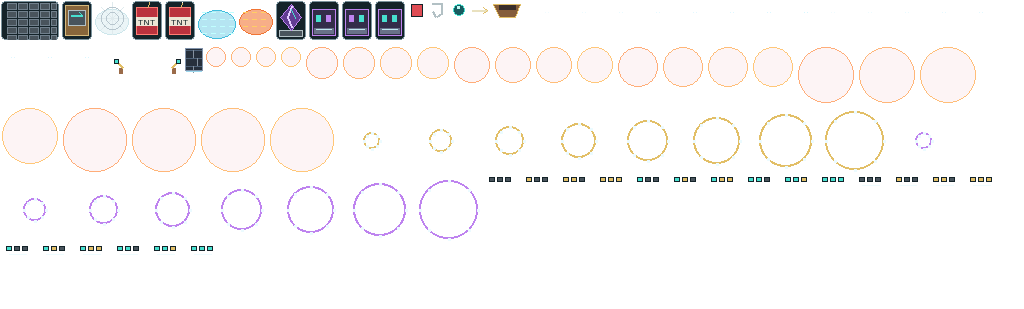
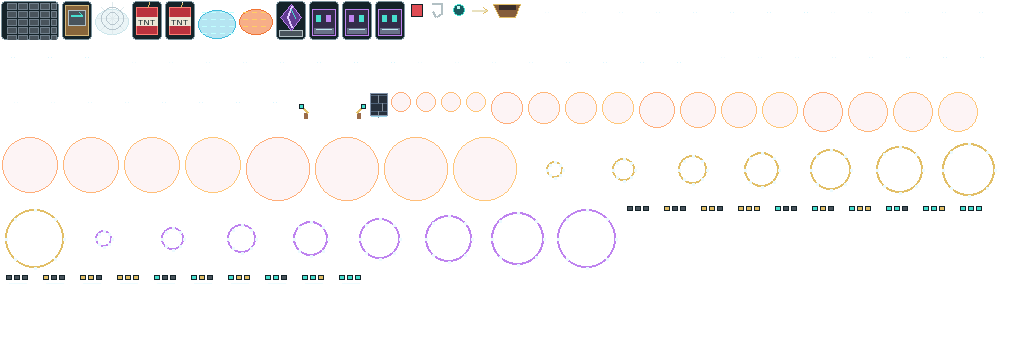
fix: align Herobrine eyes with lowered ultimate and hit poses

diff --git a/editor/steve-preset.js b/editor/steve-preset.js
@@ -1,1 +1,1 @@
-window.STEVE_PRESET={"id":"tfm2_blockcraft_steve","category":"Util","tags":["Tank","CC","Shield","Melee"],"sprite":"asset/tfm2_blockcraft/champions/tfm2_blockcraft_steve","anim_prefix":"","stat":{"attack":62,"magic_power":0,"hp":1150,"defence":40,"magic_resistance":35,"move_speed":1000,"hp_regen":0,"stack":0,"crit_chance":0},"growth":{"attack":11,"magic_power":0,"hp":120,"defence":10,"magic_resistance":5,"move_speed":10,"hp_regen":0,"stack":0,"crit_chance":0},"attack":{"action_name":"attack","cancelable":true,"growth_range":0,"can_use_with_move":false,"duration":22,"cooltime":65,"start_timing":12,"range":23000,"casting_type":"Targeting","casting_target":"Enemy","attack_type":"BaseAttack","effect":{"type":"Native","effect_ref":"tfm2_custom_ai:steve_basic"}},"skill":{"action_name":"skill1","cancelable":true,"growth_range":0,"can_use_with_move":false,"duration":6,"cooltime":5184000,"start_timing":3,"range":1,"casting_type":"Targeting","casting_target":"EnemyChampionInCC","attack_type":"Skill","effect":{"type":"Combine","effects":[]},"description":"#asset/base/text/champion?description.tfm2_blockcraft_steve.skill"},"skill2":{"action_name":"skill2","cancelable":true,"growth_range":0,"can_use_with_move":false,"duration":6,"cooltime":5184000,"start_timing":3,"range":1,"casting_type":"Targeting","casting_target":"EnemyChampionInCC","attack_type":"Skill","effect":{"type":"Combine","effects":[]},"description":"#asset/base/text/champion?description.tfm2_blockcraft_steve.skill2"},"ult":{"action_name":"ult","cancelable":true,"growth_range":0,"can_use_with_move":false,"duration":6,"cooltime":5184000,"start_timing":3,"range":1,"casting_type":"Targeting","casting_target":"EnemyChampionInCC","attack_type":"Skill","effect":{"type":"Combine","effects":[]},"description":"#asset/base/text/champion?description.tfm2_blockcraft_steve.ult"},"passive":{"passive_ref":"tfm2_custom_ai:steve_craft","params":{}},"view_effects":[{"type":"Animation","name":"tfm2_blockcraft_steve_tnt","anim":"asset/tfm2_blockcraft/vfx/blockcraft","tag":"tnt","z":0,"is_follow":false},{"type":"Animation","name":"tfm2_blockcraft_steve_tnt_idle","anim":"asset/tfm2_blockcraft/vfx/blockcraft","tag":"tnt_idle","z":0,"is_follow":false},{"type":"Animation","name":"tfm2_blockcraft_steve_tnt_ring","anim":"asset/tfm2_blockcraft/vfx/blockcraft","tag":"tnt_ring","z":-1,"is_follow":false},{"type":"Animation","name":"tfm2_blockcraft_steve_boom","anim":"asset/tfm2_blockcraft/vfx/blockcraft","tag":"boom","z":2,"is_follow":false},{"type":"Animation","name":"tfm2_blockcraft_steve_hook","anim":"asset/tfm2_blockcraft/vfx/blockcraft","tag":"hook","z":2,"is_follow":false},{"type":"Animation","name":"tfm2_blockcraft_steve_line_dot","anim":"asset/tfm2_blockcraft/vfx/blockcraft","tag":"line_dot","z":1,"is_follow":false},{"type":"Animation","name":"tfm2_blockcraft_steve_hooked","anim":"asset/tfm2_blockcraft/vfx/blockcraft","tag":"hooked","z":3,"is_follow":true},{"type":"Animation","name":"tfm2_blockcraft_steve_apple_glow","anim":"asset/tfm2_blockcraft/vfx/blockcraft","tag":"apple_glow","z":2,"is_follow":true},{"type":"Animation","name":"tfm2_blockcraft_steve_warp","anim":"asset/tfm2_blockcraft/vfx/blockcraft","tag":"warp","z":2,"is_follow":false},{"type":"Animation","name":"tfm2_blockcraft_steve_splash","anim":"asset/tfm2_blockcraft/vfx/blockcraft","tag":"splash","z":2,"is_follow":false},{"type":"Animation","name":"tfm2_blockcraft_steve_boat_r","anim":"asset/tfm2_blockcraft/vfx/blockcraft","tag":"boat_r","z":0,"is_follow":false},{"type":"Animation","name":"tfm2_blockcraft_steve_boat_l","anim":"asset/tfm2_blockcraft/vfx/blockcraft","tag":"boat_l","z":0,"is_follow":false},{"type":"Animation","name":"tfm2_blockcraft_steve_ice","anim":"asset/tfm2_blockcraft/vfx/blockcraft","tag":"ice","z":-1,"is_follow":false},{"type":"Animation","name":"tfm2_blockcraft_steve_wall_block","anim":"asset/tfm2_blockcraft/vfx/blockcraft","tag":"wall_block","z":0,"is_follow":false},{"type":"Animation","name":"tfm2_blockcraft_steve_wall_rise","anim":"asset/tfm2_blockcraft/vfx/blockcraft","tag":"wall_rise","z":1,"is_follow":false},{"type":"Animation","name":"tfm2_blockcraft_craft_object0","anim":"asset/tfm2_blockcraft/vfx/steve_craft","tag":"object0","z":3,"is_follow":false},{"type":"Animation","name":"tfm2_blockcraft_craft_object1","anim":"asset/tfm2_blockcraft/vfx/steve_craft","tag":"object1","z":3,"is_follow":false},{"type":"Animation","name":"tfm2_blockcraft_craft_object2","anim":"asset/tfm2_blockcraft/vfx/steve_craft","tag":"object2","z":-1,"is_follow":false},{"type":"Animation","name":"tfm2_blockcraft_craft_object3","anim":"asset/tfm2_blockcraft/vfx/steve_craft","tag":"object3","z":3,"is_follow":false},{"type":"Animation","name":"tfm2_blockcraft_craft_object4","anim":"asset/tfm2_blockcraft/vfx/steve_craft","tag":"object4","z":-1,"is_follow":false},{"type":"Animation","name":"tfm2_blockcraft_craft_object5","anim":"asset/tfm2_blockcraft/vfx/steve_craft","tag":"object5","z":-1,"is_follow":false},{"type":"Animation","name":"tfm2_blockcraft_craft_object6","anim":"asset/tfm2_blockcraft/vfx/steve_craft","tag":"object6","z":3,"is_follow":false},{"type":"Animation","name":"tfm2_blockcraft_craft_object7","anim":"asset/tfm2_blockcraft/vfx/steve_craft","tag":"object7","z":3,"is_follow":false},{"type":"Animation","name":"tfm2_blockcraft_craft_tool3","anim":"asset/tfm2_blockcraft/vfx/steve_craft","tag":"tool3","z":3,"is_follow":false},{"type":"Animation","name":"tfm2_blockcraft_craft_tool8","anim":"asset/tfm2_blockcraft/vfx/steve_craft","tag":"tool8","z":3,"is_follow":false},{"type":"Animation","name":"tfm2_blockcraft_craft_tool9","anim":"asset/tfm2_blockcraft/vfx/steve_craft","tag":"tool9","z":3,"is_follow":false},{"type":"Animation","name":"tfm2_blockcraft_craft_tool12","anim":"asset/tfm2_blockcraft/vfx/steve_craft","tag":"tool12","z":3,"is_follow":false},{"type":"Animation","name":"tfm2_blockcraft_craft_tool14","anim":"asset/tfm2_blockcraft/vfx/steve_craft","tag":"tool14","z":3,"is_follow":false},{"type":"Animation","name":"tfm2_blockcraft_craft_eyes","anim":"asset/tfm2_blockcraft/vfx/steve_craft","tag":"eyes","z":3,"is_follow":false},{"type":"Animation","name":"tfm2_blockcraft_craft_eyes_l","anim":"asset/tfm2_blockcraft/vfx/steve_craft","tag":"eyes_l","z":3,"is_follow":false},{"type":"Animation","name":"tfm2_blockcraft_craft_cast_l","anim":"asset/tfm2_blockcraft/vfx/steve_craft","tag":"cast_l","z":3,"is_follow":false},{"type":"Animation","name":"tfm2_blockcraft_craft_cast_r","anim":"asset/tfm2_blockcraft/vfx/steve_craft","tag":"cast_r","z":3,"is_follow":false},{"type":"Animation","name":"tfm2_blockcraft_craft_wall","anim":"asset/tfm2_blockcraft/vfx/steve_craft","tag":"wall","z":3,"is_follow":false},{"type":"Animation","name":"tfm2_blockcraft_craft_boat","anim":"asset/tfm2_blockcraft/vfx/steve_craft","tag":"boat","z":3,"is_follow":false},{"type":"Animation","name":"tfm2_blockcraft_craft_warn10","anim":"asset/tfm2_blockcraft/vfx/steve_craft","tag":"warn10","z":-1,"is_follow":false},{"type":"Animation","name":"tfm2_blockcraft_craft_warn16","anim":"asset/tfm2_blockcraft/vfx/steve_craft","tag":"warn16","z":-1,"is_follow":false},{"type":"Animation","name":"tfm2_blockcraft_craft_warn18","anim":"asset/tfm2_blockcraft/vfx/steve_craft","tag":"warn18","z":-1,"is_follow":false},{"type":"Animation","name":"tfm2_blockcraft_craft_warn20","anim":"asset/tfm2_blockcraft/vfx/steve_craft","tag":"warn20","z":-1,"is_follow":false},{"type":"Animation","name":"tfm2_blockcraft_craft_warn28","anim":"asset/tfm2_blockcraft/vfx/steve_craft","tag":"warn28","z":-1,"is_follow":false},{"type":"Animation","name":"tfm2_blockcraft_craft_warn32","anim":"asset/tfm2_blockcraft/vfx/steve_craft","tag":"warn32","z":-1,"is_follow":false},{"type":"Animation","name":"tfm2_blockcraft_craft_fx3","anim":"asset/tfm2_blockcraft/vfx/steve_craft","tag":"fx3","z":3,"is_follow":false},{"type":"Animation","name":"tfm2_blockcraft_craft_fx6","anim":"asset/tfm2_blockcraft/vfx/steve_craft","tag":"fx6","z":3,"is_follow":false},{"type":"Animation","name":"tfm2_blockcraft_craft_fx7","anim":"asset/tfm2_blockcraft/vfx/steve_craft","tag":"fx7","z":3,"is_follow":false},{"type":"Animation","name":"tfm2_blockcraft_craft_fx20","anim":"asset/tfm2_blockcraft/vfx/steve_craft","tag":"fx20","z":3,"is_follow":false}],"view_projectiles":[{"type":"Animated","name":"tfm2_blockcraft_steve_pearl","anim":"asset/tfm2_blockcraft/vfx/blockcraft","tag":"pearl","z":1,"repeat":true},{"type":"Animated","name":"tfm2_blockcraft_steve_tnt_fly","anim":"asset/tfm2_blockcraft/vfx/blockcraft","tag":"tnt_fly","z":1,"repeat":true},{"type":"Animated","name":"tfm2_blockcraft_steve_apple","anim":"asset/tfm2_blockcraft/vfx/blockcraft","tag":"apple","z":1,"repeat":true}],"view_buffs":[{"type":"Animated","name":"stv_tool0","anim":"asset/tfm2_blockcraft/vfx/blockcraft","tag":"tool_0","z":3},{"type":"Animated","name":"stv_tool1","anim":"asset/tfm2_blockcraft/vfx/blockcraft","tag":"tool_1","z":3},{"type":"Animated","name":"stv_tool2","anim":"asset/tfm2_blockcraft/vfx/blockcraft","tag":"tool_2","z":3},{"type":"Animated","name":"stv_ch0","anim":"asset/tfm2_blockcraft/vfx/blockcraft","tag":"charge_0","z":3},{"type":"Animated","name":"stv_ch1","anim":"asset/tfm2_blockcraft/vfx/blockcraft","tag":"charge_1","z":3},{"type":"Animated","name":"stv_ch2","anim":"asset/tfm2_blockcraft/vfx/blockcraft","tag":"charge_2","z":3},{"type":"Animated","name":"stv_ch3","anim":"asset/tfm2_blockcraft/vfx/blockcraft","tag":"charge_3","z":3},{"type":"Animated","name":"stv_ch4","anim":"asset/tfm2_blockcraft/vfx/blockcraft","tag":"charge_4","z":3},{"type":"Animated","name":"stv_ch5","anim":"asset/tfm2_blockcraft/vfx/blockcraft","tag":"charge_5","z":3},{"type":"Animated","name":"sc_hud_0_0_0","anim":"asset/tfm2_blockcraft/vfx/steve_craft","tag":"hud_0_0_0","z":4},{"type":"Animated","name":"sc_hud_0_0_1","anim":"asset/tfm2_blockcraft/vfx/steve_craft","tag":"hud_0_0_1","z":4},{"type":"Animated","name":"sc_hud_0_0_2","anim":"asset/tfm2_blockcraft/vfx/steve_craft","tag":"hud_0_0_2","z":4},{"type":"Animated","name":"sc_hud_0_0_3","anim":"asset/tfm2_blockcraft/vfx/steve_craft","tag":"hud_0_0_3","z":4},{"type":"Animated","name":"sc_hud_0_1_0","anim":"asset/tfm2_blockcraft/vfx/steve_craft","tag":"hud_0_1_0","z":4},{"type":"Animated","name":"sc_hud_0_1_1","anim":"asset/tfm2_blockcraft/vfx/steve_craft","tag":"hud_0_1_1","z":4},{"type":"Animated","name":"sc_hud_0_1_2","anim":"asset/tfm2_blockcraft/vfx/steve_craft","tag":"hud_0_1_2","z":4},{"type":"Animated","name":"sc_hud_0_2_0","anim":"asset/tfm2_blockcraft/vfx/steve_craft","tag":"hud_0_2_0","z":4},{"type":"Animated","name":"sc_hud_0_2_1","anim":"asset/tfm2_blockcraft/vfx/steve_craft","tag":"hud_0_2_1","z":4},{"type":"Animated","name":"sc_hud_0_3_0","anim":"asset/tfm2_blockcraft/vfx/steve_craft","tag":"hud_0_3_0","z":4},{"type":"Animated","name":"sc_hud_1_0_0","anim":"asset/tfm2_blockcraft/vfx/steve_craft","tag":"hud_1_0_0","z":4},{"type":"Animated","name":"sc_hud_1_0_1","anim":"asset/tfm2_blockcraft/vfx/steve_craft","tag":"hud_1_0_1","z":4},{"type":"Animated","name":"sc_hud_1_0_2","anim":"asset/tfm2_blockcraft/vfx/steve_craft","tag":"hud_1_0_2","z":4},{"type":"Animated","name":"sc_hud_1_0_3","anim":"asset/tfm2_blockcraft/vfx/steve_craft","tag":"hud_1_0_3","z":4},{"type":"Animated","name":"sc_hud_1_1_0","anim":"asset/tfm2_blockcraft/vfx/steve_craft","tag":"hud_1_1_0","z":4},{"type":"Animated","name":"sc_hud_1_1_1","anim":"asset/tfm2_blockcraft/vfx/steve_craft","tag":"hud_1_1_1","z":4},{"type":"Animated","name":"sc_hud_1_1_2","anim":"asset/tfm2_blockcraft/vfx/steve_craft","tag":"hud_1_1_2","z":4},{"type":"Animated","name":"sc_hud_1_2_0","anim":"asset/tfm2_blockcraft/vfx/steve_craft","tag":"hud_1_2_0","z":4},{"type":"Animated","name":"sc_hud_1_2_1","anim":"asset/tfm2_blockcraft/vfx/steve_craft","tag":"hud_1_2_1","z":4},{"type":"Animated","name":"sc_hud_1_3_0","anim":"asset/tfm2_blockcraft/vfx/steve_craft","tag":"hud_1_3_0","z":4}],"passive_ult":null};
+window.STEVE_PRESET={"id":"tfm2_blockcraft_steve","category":"Util","tags":["Tank","CC","Shield","Melee"],"sprite":"asset/tfm2_blockcraft/champions/tfm2_blockcraft_steve","anim_prefix":"","stat":{"attack":62,"magic_power":0,"hp":1150,"defence":40,"magic_resistance":35,"move_speed":1000,"hp_regen":0,"stack":0,"crit_chance":0},"growth":{"attack":11,"magic_power":0,"hp":120,"defence":10,"magic_resistance":5,"move_speed":10,"hp_regen":0,"stack":0,"crit_chance":0},"attack":{"action_name":"attack","cancelable":true,"growth_range":0,"can_use_with_move":false,"duration":22,"cooltime":65,"start_timing":12,"range":23000,"casting_type":"Targeting","casting_target":"Enemy","attack_type":"BaseAttack","effect":{"type":"Native","effect_ref":"tfm2_custom_ai:steve_basic"}},"skill":{"action_name":"skill1","cancelable":true,"growth_range":0,"can_use_with_move":false,"duration":6,"cooltime":5184000,"start_timing":3,"range":1,"casting_type":"Targeting","casting_target":"EnemyChampionInCC","attack_type":"Skill","effect":{"type":"Combine","effects":[]},"description":"#asset/base/text/champion?description.tfm2_blockcraft_steve.skill"},"skill2":{"action_name":"skill2","cancelable":true,"growth_range":0,"can_use_with_move":false,"duration":6,"cooltime":5184000,"start_timing":3,"range":1,"casting_type":"Targeting","casting_target":"EnemyChampionInCC","attack_type":"Skill","effect":{"type":"Combine","effects":[]},"description":"#asset/base/text/champion?description.tfm2_blockcraft_steve.skill2"},"ult":{"action_name":"ult","cancelable":true,"growth_range":0,"can_use_with_move":false,"duration":6,"cooltime":5184000,"start_timing":3,"range":1,"casting_type":"Targeting","casting_target":"EnemyChampionInCC","attack_type":"Skill","effect":{"type":"Combine","effects":[]},"description":"#asset/base/text/champion?description.tfm2_blockcraft_steve.ult"},"passive":{"passive_ref":"tfm2_custom_ai:steve_craft","params":{}},"view_effects":[{"type":"Animation","name":"tfm2_blockcraft_steve_tnt","anim":"asset/tfm2_blockcraft/vfx/blockcraft","tag":"tnt","z":0,"is_follow":false},{"type":"Animation","name":"tfm2_blockcraft_steve_tnt_idle","anim":"asset/tfm2_blockcraft/vfx/blockcraft","tag":"tnt_idle","z":0,"is_follow":false},{"type":"Animation","name":"tfm2_blockcraft_steve_tnt_ring","anim":"asset/tfm2_blockcraft/vfx/blockcraft","tag":"tnt_ring","z":-1,"is_follow":false},{"type":"Animation","name":"tfm2_blockcraft_steve_boom","anim":"asset/tfm2_blockcraft/vfx/blockcraft","tag":"boom","z":2,"is_follow":false},{"type":"Animation","name":"tfm2_blockcraft_steve_hook","anim":"asset/tfm2_blockcraft/vfx/blockcraft","tag":"hook","z":2,"is_follow":false},{"type":"Animation","name":"tfm2_blockcraft_steve_line_dot","anim":"asset/tfm2_blockcraft/vfx/blockcraft","tag":"line_dot","z":1,"is_follow":false},{"type":"Animation","name":"tfm2_blockcraft_steve_hooked","anim":"asset/tfm2_blockcraft/vfx/blockcraft","tag":"hooked","z":3,"is_follow":true},{"type":"Animation","name":"tfm2_blockcraft_steve_apple_glow","anim":"asset/tfm2_blockcraft/vfx/blockcraft","tag":"apple_glow","z":2,"is_follow":true},{"type":"Animation","name":"tfm2_blockcraft_steve_warp","anim":"asset/tfm2_blockcraft/vfx/blockcraft","tag":"warp","z":2,"is_follow":false},{"type":"Animation","name":"tfm2_blockcraft_steve_splash","anim":"asset/tfm2_blockcraft/vfx/blockcraft","tag":"splash","z":2,"is_follow":false},{"type":"Animation","name":"tfm2_blockcraft_steve_boat_r","anim":"asset/tfm2_blockcraft/vfx/blockcraft","tag":"boat_r","z":0,"is_follow":false},{"type":"Animation","name":"tfm2_blockcraft_steve_boat_l","anim":"asset/tfm2_blockcraft/vfx/blockcraft","tag":"boat_l","z":0,"is_follow":false},{"type":"Animation","name":"tfm2_blockcraft_steve_ice","anim":"asset/tfm2_blockcraft/vfx/blockcraft","tag":"ice","z":-1,"is_follow":false},{"type":"Animation","name":"tfm2_blockcraft_steve_wall_block","anim":"asset/tfm2_blockcraft/vfx/blockcraft","tag":"wall_block","z":0,"is_follow":false},{"type":"Animation","name":"tfm2_blockcraft_steve_wall_rise","anim":"asset/tfm2_blockcraft/vfx/blockcraft","tag":"wall_rise","z":1,"is_follow":false},{"type":"Animation","name":"tfm2_blockcraft_craft_object0","anim":"asset/tfm2_blockcraft/vfx/steve_craft","tag":"object0","z":3,"is_follow":false},{"type":"Animation","name":"tfm2_blockcraft_craft_object1","anim":"asset/tfm2_blockcraft/vfx/steve_craft","tag":"object1","z":3,"is_follow":false},{"type":"Animation","name":"tfm2_blockcraft_craft_object2","anim":"asset/tfm2_blockcraft/vfx/steve_craft","tag":"object2","z":-1,"is_follow":false},{"type":"Animation","name":"tfm2_blockcraft_craft_object3","anim":"asset/tfm2_blockcraft/vfx/steve_craft","tag":"object3","z":3,"is_follow":false},{"type":"Animation","name":"tfm2_blockcraft_craft_object4","anim":"asset/tfm2_blockcraft/vfx/steve_craft","tag":"object4","z":-1,"is_follow":false},{"type":"Animation","name":"tfm2_blockcraft_craft_object5","anim":"asset/tfm2_blockcraft/vfx/steve_craft","tag":"object5","z":-1,"is_follow":false},{"type":"Animation","name":"tfm2_blockcraft_craft_object6","anim":"asset/tfm2_blockcraft/vfx/steve_craft","tag":"object6","z":3,"is_follow":false},{"type":"Animation","name":"tfm2_blockcraft_craft_object7","anim":"asset/tfm2_blockcraft/vfx/steve_craft","tag":"object7","z":3,"is_follow":false},{"type":"Animation","name":"tfm2_blockcraft_craft_tool3","anim":"asset/tfm2_blockcraft/vfx/steve_craft","tag":"tool3","z":3,"is_follow":false},{"type":"Animation","name":"tfm2_blockcraft_craft_tool8","anim":"asset/tfm2_blockcraft/vfx/steve_craft","tag":"tool8","z":3,"is_follow":false},{"type":"Animation","name":"tfm2_blockcraft_craft_tool9","anim":"asset/tfm2_blockcraft/vfx/steve_craft","tag":"tool9","z":3,"is_follow":false},{"type":"Animation","name":"tfm2_blockcraft_craft_tool12","anim":"asset/tfm2_blockcraft/vfx/steve_craft","tag":"tool12","z":3,"is_follow":false},{"type":"Animation","name":"tfm2_blockcraft_craft_tool14","anim":"asset/tfm2_blockcraft/vfx/steve_craft","tag":"tool14","z":3,"is_follow":false},{"type":"Animation","name":"tfm2_blockcraft_craft_eyes","anim":"asset/tfm2_blockcraft/vfx/steve_craft","tag":"eyes","z":3,"is_follow":false},{"type":"Animation","name":"tfm2_blockcraft_craft_eyes_l","anim":"asset/tfm2_blockcraft/vfx/steve_craft","tag":"eyes_l","z":3,"is_follow":false},{"type":"Animation","name":"tfm2_blockcraft_craft_eyes_ult","anim":"asset/tfm2_blockcraft/vfx/steve_craft","tag":"eyes_ult","z":3,"is_follow":false},{"type":"Animation","name":"tfm2_blockcraft_craft_eyes_ult_l","anim":"asset/tfm2_blockcraft/vfx/steve_craft","tag":"eyes_ult_l","z":3,"is_follow":false},{"type":"Animation","name":"tfm2_blockcraft_craft_eyes_hit","anim":"asset/tfm2_blockcraft/vfx/steve_craft","tag":"eyes_hit","z":3,"is_follow":false},{"type":"Animation","name":"tfm2_blockcraft_craft_eyes_hit_l","anim":"asset/tfm2_blockcraft/vfx/steve_craft","tag":"eyes_hit_l","z":3,"is_follow":false},{"type":"Animation","name":"tfm2_blockcraft_craft_cast_l","anim":"asset/tfm2_blockcraft/vfx/steve_craft","tag":"cast_l","z":3,"is_follow":false},{"type":"Animation","name":"tfm2_blockcraft_craft_cast_r","anim":"asset/tfm2_blockcraft/vfx/steve_craft","tag":"cast_r","z":3,"is_follow":false},{"type":"Animation","name":"tfm2_blockcraft_craft_wall","anim":"asset/tfm2_blockcraft/vfx/steve_craft","tag":"wall","z":3,"is_follow":false},{"type":"Animation","name":"tfm2_blockcraft_craft_boat","anim":"asset/tfm2_blockcraft/vfx/steve_craft","tag":"boat","z":3,"is_follow":false},{"type":"Animation","name":"tfm2_blockcraft_craft_warn10","anim":"asset/tfm2_blockcraft/vfx/steve_craft","tag":"warn10","z":-1,"is_follow":false},{"type":"Animation","name":"tfm2_blockcraft_craft_warn16","anim":"asset/tfm2_blockcraft/vfx/steve_craft","tag":"warn16","z":-1,"is_follow":false},{"type":"Animation","name":"tfm2_blockcraft_craft_warn18","anim":"asset/tfm2_blockcraft/vfx/steve_craft","tag":"warn18","z":-1,"is_follow":false},{"type":"Animation","name":"tfm2_blockcraft_craft_warn20","anim":"asset/tfm2_blockcraft/vfx/steve_craft","tag":"warn20","z":-1,"is_follow":false},{"type":"Animation","name":"tfm2_blockcraft_craft_warn28","anim":"asset/tfm2_blockcraft/vfx/steve_craft","tag":"warn28","z":-1,"is_follow":false},{"type":"Animation","name":"tfm2_blockcraft_craft_warn32","anim":"asset/tfm2_blockcraft/vfx/steve_craft","tag":"warn32","z":-1,"is_follow":false},{"type":"Animation","name":"tfm2_blockcraft_craft_fx3","anim":"asset/tfm2_blockcraft/vfx/steve_craft","tag":"fx3","z":3,"is_follow":false},{"type":"Animation","name":"tfm2_blockcraft_craft_fx6","anim":"asset/tfm2_blockcraft/vfx/steve_craft","tag":"fx6","z":3,"is_follow":false},{"type":"Animation","name":"tfm2_blockcraft_craft_fx7","anim":"asset/tfm2_blockcraft/vfx/steve_craft","tag":"fx7","z":3,"is_follow":false},{"type":"Animation","name":"tfm2_blockcraft_craft_fx20","anim":"asset/tfm2_blockcraft/vfx/steve_craft","tag":"fx20","z":3,"is_follow":false}],"view_projectiles":[{"type":"Animated","name":"tfm2_blockcraft_steve_pearl","anim":"asset/tfm2_blockcraft/vfx/blockcraft","tag":"pearl","z":1,"repeat":true},{"type":"Animated","name":"tfm2_blockcraft_steve_tnt_fly","anim":"asset/tfm2_blockcraft/vfx/blockcraft","tag":"tnt_fly","z":1,"repeat":true},{"type":"Animated","name":"tfm2_blockcraft_steve_apple","anim":"asset/tfm2_blockcraft/vfx/blockcraft","tag":"apple","z":1,"repeat":true}],"view_buffs":[{"type":"Animated","name":"stv_tool0","anim":"asset/tfm2_blockcraft/vfx/blockcraft","tag":"tool_0","z":3},{"type":"Animated","name":"stv_tool1","anim":"asset/tfm2_blockcraft/vfx/blockcraft","tag":"tool_1","z":3},{"type":"Animated","name":"stv_tool2","anim":"asset/tfm2_blockcraft/vfx/blockcraft","tag":"tool_2","z":3},{"type":"Animated","name":"stv_ch0","anim":"asset/tfm2_blockcraft/vfx/blockcraft","tag":"charge_0","z":3},{"type":"Animated","name":"stv_ch1","anim":"asset/tfm2_blockcraft/vfx/blockcraft","tag":"charge_1","z":3},{"type":"Animated","name":"stv_ch2","anim":"asset/tfm2_blockcraft/vfx/blockcraft","tag":"charge_2","z":3},{"type":"Animated","name":"stv_ch3","anim":"asset/tfm2_blockcraft/vfx/blockcraft","tag":"charge_3","z":3},{"type":"Animated","name":"stv_ch4","anim":"asset/tfm2_blockcraft/vfx/blockcraft","tag":"charge_4","z":3},{"type":"Animated","name":"stv_ch5","anim":"asset/tfm2_blockcraft/vfx/blockcraft","tag":"charge_5","z":3},{"type":"Animated","name":"sc_hud_0_0_0","anim":"asset/tfm2_blockcraft/vfx/steve_craft","tag":"hud_0_0_0","z":4},{"type":"Animated","name":"sc_hud_0_0_1","anim":"asset/tfm2_blockcraft/vfx/steve_craft","tag":"hud_0_0_1","z":4},{"type":"Animated","name":"sc_hud_0_0_2","anim":"asset/tfm2_blockcraft/vfx/steve_craft","tag":"hud_0_0_2","z":4},{"type":"Animated","name":"sc_hud_0_0_3","anim":"asset/tfm2_blockcraft/vfx/steve_craft","tag":"hud_0_0_3","z":4},{"type":"Animated","name":"sc_hud_0_1_0","anim":"asset/tfm2_blockcraft/vfx/steve_craft","tag":"hud_0_1_0","z":4},{"type":"Animated","name":"sc_hud_0_1_1","anim":"asset/tfm2_blockcraft/vfx/steve_craft","tag":"hud_0_1_1","z":4},{"type":"Animated","name":"sc_hud_0_1_2","anim":"asset/tfm2_blockcraft/vfx/steve_craft","tag":"hud_0_1_2","z":4},{"type":"Animated","name":"sc_hud_0_2_0","anim":"asset/tfm2_blockcraft/vfx/steve_craft","tag":"hud_0_2_0","z":4},{"type":"Animated","name":"sc_hud_0_2_1","anim":"asset/tfm2_blockcraft/vfx/steve_craft","tag":"hud_0_2_1","z":4},{"type":"Animated","name":"sc_hud_0_3_0","anim":"asset/tfm2_blockcraft/vfx/steve_craft","tag":"hud_0_3_0","z":4},{"type":"Animated","name":"sc_hud_1_0_0","anim":"asset/tfm2_blockcraft/vfx/steve_craft","tag":"hud_1_0_0","z":4},{"type":"Animated","name":"sc_hud_1_0_1","anim":"asset/tfm2_blockcraft/vfx/steve_craft","tag":"hud_1_0_1","z":4},{"type":"Animated","name":"sc_hud_1_0_2","anim":"asset/tfm2_blockcraft/vfx/steve_craft","tag":"hud_1_0_2","z":4},{"type":"Animated","name":"sc_hud_1_0_3","anim":"asset/tfm2_blockcraft/vfx/steve_craft","tag":"hud_1_0_3","z":4},{"type":"Animated","name":"sc_hud_1_1_0","anim":"asset/tfm2_blockcraft/vfx/steve_craft","tag":"hud_1_1_0","z":4},{"type":"Animated","name":"sc_hud_1_1_1","anim":"asset/tfm2_blockcraft/vfx/steve_craft","tag":"hud_1_1_1","z":4},{"type":"Animated","name":"sc_hud_1_1_2","anim":"asset/tfm2_blockcraft/vfx/steve_craft","tag":"hud_1_1_2","z":4},{"type":"Animated","name":"sc_hud_1_2_0","anim":"asset/tfm2_blockcraft/vfx/steve_craft","tag":"hud_1_2_0","z":4},{"type":"Animated","name":"sc_hud_1_2_1","anim":"asset/tfm2_blockcraft/vfx/steve_craft","tag":"hud_1_2_1","z":4},{"type":"Animated","name":"sc_hud_1_3_0","anim":"asset/tfm2_blockcraft/vfx/steve_craft","tag":"hud_1_3_0","z":4}],"passive_ult":null};

diff --git a/editor/steve-lab.js b/editor/steve-lab.js
@@ -59,7 +59,7 @@ function draw(){const w=canvas.width,h=canvas.height,S=w/960000,oy=(h-960000*S)/
  for(const o of s.objects){const[x,y]=point([o.x,o.y]);sprite('object'+o.recipe,x,y);const host=objects.get(o.id);if(host){ctx.fillStyle='#152027';ctx.fillRect(x-15,y+23,30,3);ctx.fillStyle=host.hp?'#9de0be':'#ee8f98';ctx.fillRect(x-15,y+23,30*host.hp/host.maxHp,3);}if(o.id===objectSelected){ctx.strokeStyle='#e5ce8e';ctx.strokeRect(x-19,y-22,38,50);}}
  if(s.ride){let remaining=Math.max(0,tick-s.ride.start)*2500,p=s.ride.path.at(-1);for(let n=0;n+1<s.ride.path.length;n++){const a=s.ride.path[n],b=s.ride.path[n+1],len=Math.hypot(b[0]-a[0],b[1]-a[1]);if(remaining<=len){p=[a[0]+(b[0]-a[0])*remaining/Math.max(1,len),a[1]+(b[1]-a[1])*remaining/Math.max(1,len)];break;}remaining-=len;}const q=point(p);sprite('boat',q[0],q[1]+14);}
  for(const sh of s.shots){const[x,y]=point([sh[1],sh[2]]);sprite('tool'+sh[0],x,y);}}
- for(const u of units){if(!u.visible||u.hp<=0)continue;const[x,y]=point([u.x,u.y]);ctx.fillStyle=u.team===0?'#6dd9ba':'#df7a8c';ctx.beginPath();ctx.ellipse(x,y+18,15,5,0,0,Math.PI*2);ctx.fill();if(u.id===0){const face=aim[0]<u.x;sprite(s?.pending?'skill1':'idle',x,y,1,tick,face,true);if(s?.form)sprite('eyes',x,y,1,tick,face);if(s?.pending)sprite(face?'cast_l':'cast_r',x,y);}else{ctx.fillStyle=u.team===0?'#567e9b':'#9b5b69';ctx.fillRect(x-8,y-12,16,28);ctx.fillStyle='#d4b394';ctx.fillRect(x-7,y-21,14,12);}ctx.fillStyle='#112128';ctx.fillRect(x-20,y+26,40,4);ctx.fillStyle=u.team===0?'#72dcad':'#e68f9d';ctx.fillRect(x-20,y+26,40*u.hp/u.maxHp,4);ctx.font='11px system-ui';ctx.fillStyle='#e7efe7';ctx.textAlign='center';ctx.fillText(u.id===0?'Steve':'#'+u.id,x,y-29);if(u.id===selected){ctx.strokeStyle='#e3ca8a';ctx.beginPath();ctx.arc(x,y+3,25,0,Math.PI*2);ctx.stroke();}}
+ for(const u of units){if(!u.visible||u.hp<=0)continue;const[x,y]=point([u.x,u.y]);ctx.fillStyle=u.team===0?'#6dd9ba':'#df7a8c';ctx.beginPath();ctx.ellipse(x,y+18,15,5,0,0,Math.PI*2);ctx.fill();if(u.id===0){const face=aim[0]<u.x;const pose=s?.pending?([6,7].includes(s.pending.action[0])?'ult':'skill1'):'idle';sprite(pose,x,y,1,tick,face,true);if(s?.form)sprite(pose==='ult'?'eyes_ult':'eyes',x,y,1,tick,face);if(s?.pending)sprite(face?'cast_l':'cast_r',x,y);}else{ctx.fillStyle=u.team===0?'#567e9b':'#9b5b69';ctx.fillRect(x-8,y-12,16,28);ctx.fillStyle='#d4b394';ctx.fillRect(x-7,y-21,14,12);}ctx.fillStyle='#112128';ctx.fillRect(x-20,y+26,40,4);ctx.fillStyle=u.team===0?'#72dcad':'#e68f9d';ctx.fillRect(x-20,y+26,40*u.hp/u.maxHp,4);ctx.font='11px system-ui';ctx.fillStyle='#e7efe7';ctx.textAlign='center';ctx.fillText(u.id===0?'Steve':'#'+u.id,x,y-29);if(u.id===selected){ctx.strokeStyle='#e3ca8a';ctx.beginPath();ctx.arc(x,y+3,25,0,Math.PI*2);ctx.stroke();}}
  for(const e of effects){const[x,y]=point([e.x,e.y]);sprite(e.tag,x,y,1,tick-e.begin);}const[x,y]=point(aim);ctx.strokeStyle='#b9ccb9';ctx.lineWidth=1;ctx.beginPath();ctx.moveTo(x-7,y);ctx.lineTo(x+7,y);ctx.moveTo(x,y-7);ctx.lineTo(x,y+7);ctx.stroke();}
 function enqueue(a){queue.push(a);return a;}function cast(){const r=+$('#recipe').value;if(r===6||r===7)return enqueue([2,r]);let target=r===10?(units.find(u=>u.id===selected&&u.team===0)?.id??0):r===8?selected:null;enqueue([1,r,target===null?0:target+1,...aim]);}
 function demo(r=+$('#recipe').value){$('#automatic').checked=false;$('#moving').checked=false;reset('heavy');$('#recipe').value=r;recipeInfo();if(r===6||r===7){queue.push([2,r]);for(let n=0;n<62;n++)step();enqueue([3,0,0,...aim]);}else{if(r===0||r===1)aim=[520000,510000];if(r===8)aim=[units[1].x,units[1].y];cast();}playing=true;$('#play').textContent='Pause';}

diff --git a/tools/review-steve-art.py b/tools/review-steve-art.py
@@ -1,0 +1,16 @@
+"""Contact sheets at 1x/2x, every original pose, both facings and terrain contrasts."""
+from pathlib import Path
+from PIL import Image,ImageDraw,ImageOps,ImageFont
+import json
+ROOT=Path(__file__).resolve().parents[1];MOD=ROOT/'mods/tfm2_blockcraft';OUT=ROOT/'docs/steve-results'
+body=Image.open(MOD/'champions/tfm2_blockcraft_steve#sheet.png').convert('RGBA');poses=json.loads((MOD/'champions/tfm2_blockcraft_steve#anim.fanim').read_text())['anims'];fx=Image.open(MOD/'vfx/steve_craft#sheet.png').convert('RGBA');effects=json.loads((MOD/'vfx/steve_craft#anim.fanim').read_text())['anims'];font=ImageFont.load_default(size=12)
+def crop(im,r):return im.crop((r['x'],r['y'],r['x']+r['w'],r['y']+r['h']))
+eyes=crop(fx,effects['eyes']['frames'][0]['data']);sheet=Image.new('RGB',(1024,80+len(poses)*130),'#15232e');d=ImageDraw.Draw(sheet);d.text((16,14),'Original poses / Herobrine overlay / both facings / 1x and 2x',font=font,fill='white');d.text((16,36),'No original body pixels or animation timings changed. Native overlay alignment still needs live observation.',font=font,fill='#9db9c2')
+for row,(name,pose)in enumerate(poses.items()):
+ y=70+row*130;d.text((12,y+3),name+' / '+str(len(pose['frames']))+' frames',font=font,fill='#d5b878')
+ for col,(bg,left,overlay)in enumerate([('#182e35',False,False),('#182e35',False,True),('#182e35',True,True),('#d0cfb4',False,True),('#d0cfb4',True,True)]):
+  x=210+col*160;d.rectangle((x,y,x+148,y+119),fill=bg);frame=crop(body,pose['frames'][len(pose['frames'])//2]['data']);
+  if overlay and name!='dead':frame.alpha_composite(crop(fx,effects['eyes_ult'if name=='ult'else'eyes_hit'if name=='hit'else'eyes']['frames'][0]['data']))
+  if left:frame=ImageOps.mirror(frame)
+  sheet.paste(frame,(x+12,y+62-frame.height//2),frame);large=frame.resize((72,88),Image.Resampling.NEAREST);sheet.paste(large,(x+65,y+18),large)
+sheet.save(OUT/'pose-facing-review.png');print('Reviewed',len(poses),'poses in both facings on light/dark backgrounds')

diff --git a/tools/generate-steve-art.py b/tools/generate-steve-art.py
@@ -38,10 +38,11 @@ def effect(tag,k):
  if tag.startswith('object'):return object_art(int(tag[6:]),k)
  if tag.startswith('warn'):
   radius=int(tag[4:]);w=radius*2+4;im=img(w,w);d=ImageDraw.Draw(im);d.ellipse((2,2,w-3,w-3),fill=(220,75,90,15),outline=(255,160+10*(k%4),100,220),width=1);return im
- if tag in ['eyes','eyes_l','cast_l','cast_r']:
+ if tag.startswith('eyes') or tag in ['cast_l','cast_r']:
   im=img(36,44);d=ImageDraw.Draw(im)
   if tag.startswith('eyes'):
-   for x in [21,24]:d.rectangle((x,13,x,13),fill='#ffffff');d.point((x,12),fill=(180,237,255,50+k*12))
+   y=18 if 'ult' in tag else 13
+   for x in ([18,21]if 'hit' in tag else[21,24]):d.rectangle((x,y,x,y),fill='#ffffff');d.point((x,y-1),fill=(180,237,255,50+k*12))
   else:
    d.rectangle((24,23,27,28),fill='#9a6b49');d.line((24,22,30,16),fill=GOLD,width=2);d.rectangle((28,14,32,18),fill=TEAL,outline=INK)
   return ImageOps.mirror(im)if tag.endswith('_l')else im
@@ -68,7 +69,7 @@ def effect(tag,k):
  else:d.rectangle((4,4,15,16),fill=RED,outline=INK)
  return im
 def generate():
- tags=[f'object{r}'for r in [0,1,2,3,4,5,6,7]]+[f'tool{r}'for r in [3,8,9,12,14]]+['eyes','eyes_l','cast_l','cast_r','wall','boat']+[f'warn{r}'for r in [10,16,18,20,28,32]]+[f'fx{r}'for r in [3,6,7,20]]+[f'hud_{f}_{a}_{b}'for f in range(2)for a in range(4)for b in range(4-a)]
+ tags=[f'object{r}'for r in [0,1,2,3,4,5,6,7]]+[f'tool{r}'for r in [3,8,9,12,14]]+['eyes','eyes_l','eyes_ult','eyes_ult_l','eyes_hit','eyes_hit_l','cast_l','cast_r','wall','boat']+[f'warn{r}'for r in [10,16,18,20,28,32]]+[f'fx{r}'for r in [3,6,7,20]]+[f'hud_{f}_{a}_{b}'for f in range(2)for a in range(4)for b in range(4-a)]
  atlas=img(1024,1024);anims={};x=y=row=0;dedup={}
  for tag in tags:
   frames=[]

diff --git a/native/tfm2_custom_ai/src/steve_craft.rs b/native/tfm2_custom_ai/src/steve_craft.rs
@@ -423,9 +423,12 @@ impl Steve {
                 .get_entity(self.owner)
                 .map(|e| e.pos())
                 .unwrap_or_default();
+            let pose=sim.get_entity(self.owner).and_then(|e|(0..e.cc_count()).filter_map(|i|e.cc_at(i)).find(|c|c.kind==CcKindV1::Animation.code()).map(|c|c.name().to_string())).unwrap_or_default();
+            let tag=if self.core.pending.as_ref().is_some_and(|p|matches!(p.action,Action::Stance|Action::Wall{..}))||pose=="ult"{"eyes_ult"}else if pose=="hit"{"eyes_hit"}else{"eyes"};
+            let tag=if self.facing.left(){format!("{tag}_l")}else{tag.to_string()};
             emit(
                 sim,
-                if self.facing.left() { "eyes_l" } else { "eyes" },
+                &tag,
                 (p.0 as i64, p.1 as i64),
                 &mut budget,
             );

diff --git a/docs/steve-herobrine-crafting.md b/docs/steve-herobrine-crafting.md
@@ -26,7 +26,7 @@ Transport v1 uses bounded integer frames and owner-local session handles. Inputs
 
 ![Animated craft preview](steve-results/craft-preview.gif)
 
-The original body and legacy VFX are preserved. New mirrored eye/tool overlays, charge/reservation HUD, voxel objects, field art and warnings use a deduplicated **1024×309** atlas. Total decoded Blockcraft art is **2,065,408 bytes**, below 32 MiB. `tools/verify-steve-art.py` checks reproducibility, both overlay facings, every atlas rectangle, and unchanged original animation metadata/pixels.
+The original body and legacy VFX are preserved. New mirrored eye/tool overlays, charge/reservation HUD, voxel objects, field art and warnings use a deduplicated **1024×338** atlas. Total decoded Blockcraft art is **2,184,192 bytes**, below 32 MiB. `tools/verify-steve-art.py` checks reproducibility, both overlay facings, every atlas rectangle, and unchanged original animation metadata/pixels.
 
 ## Verification and limits
 
